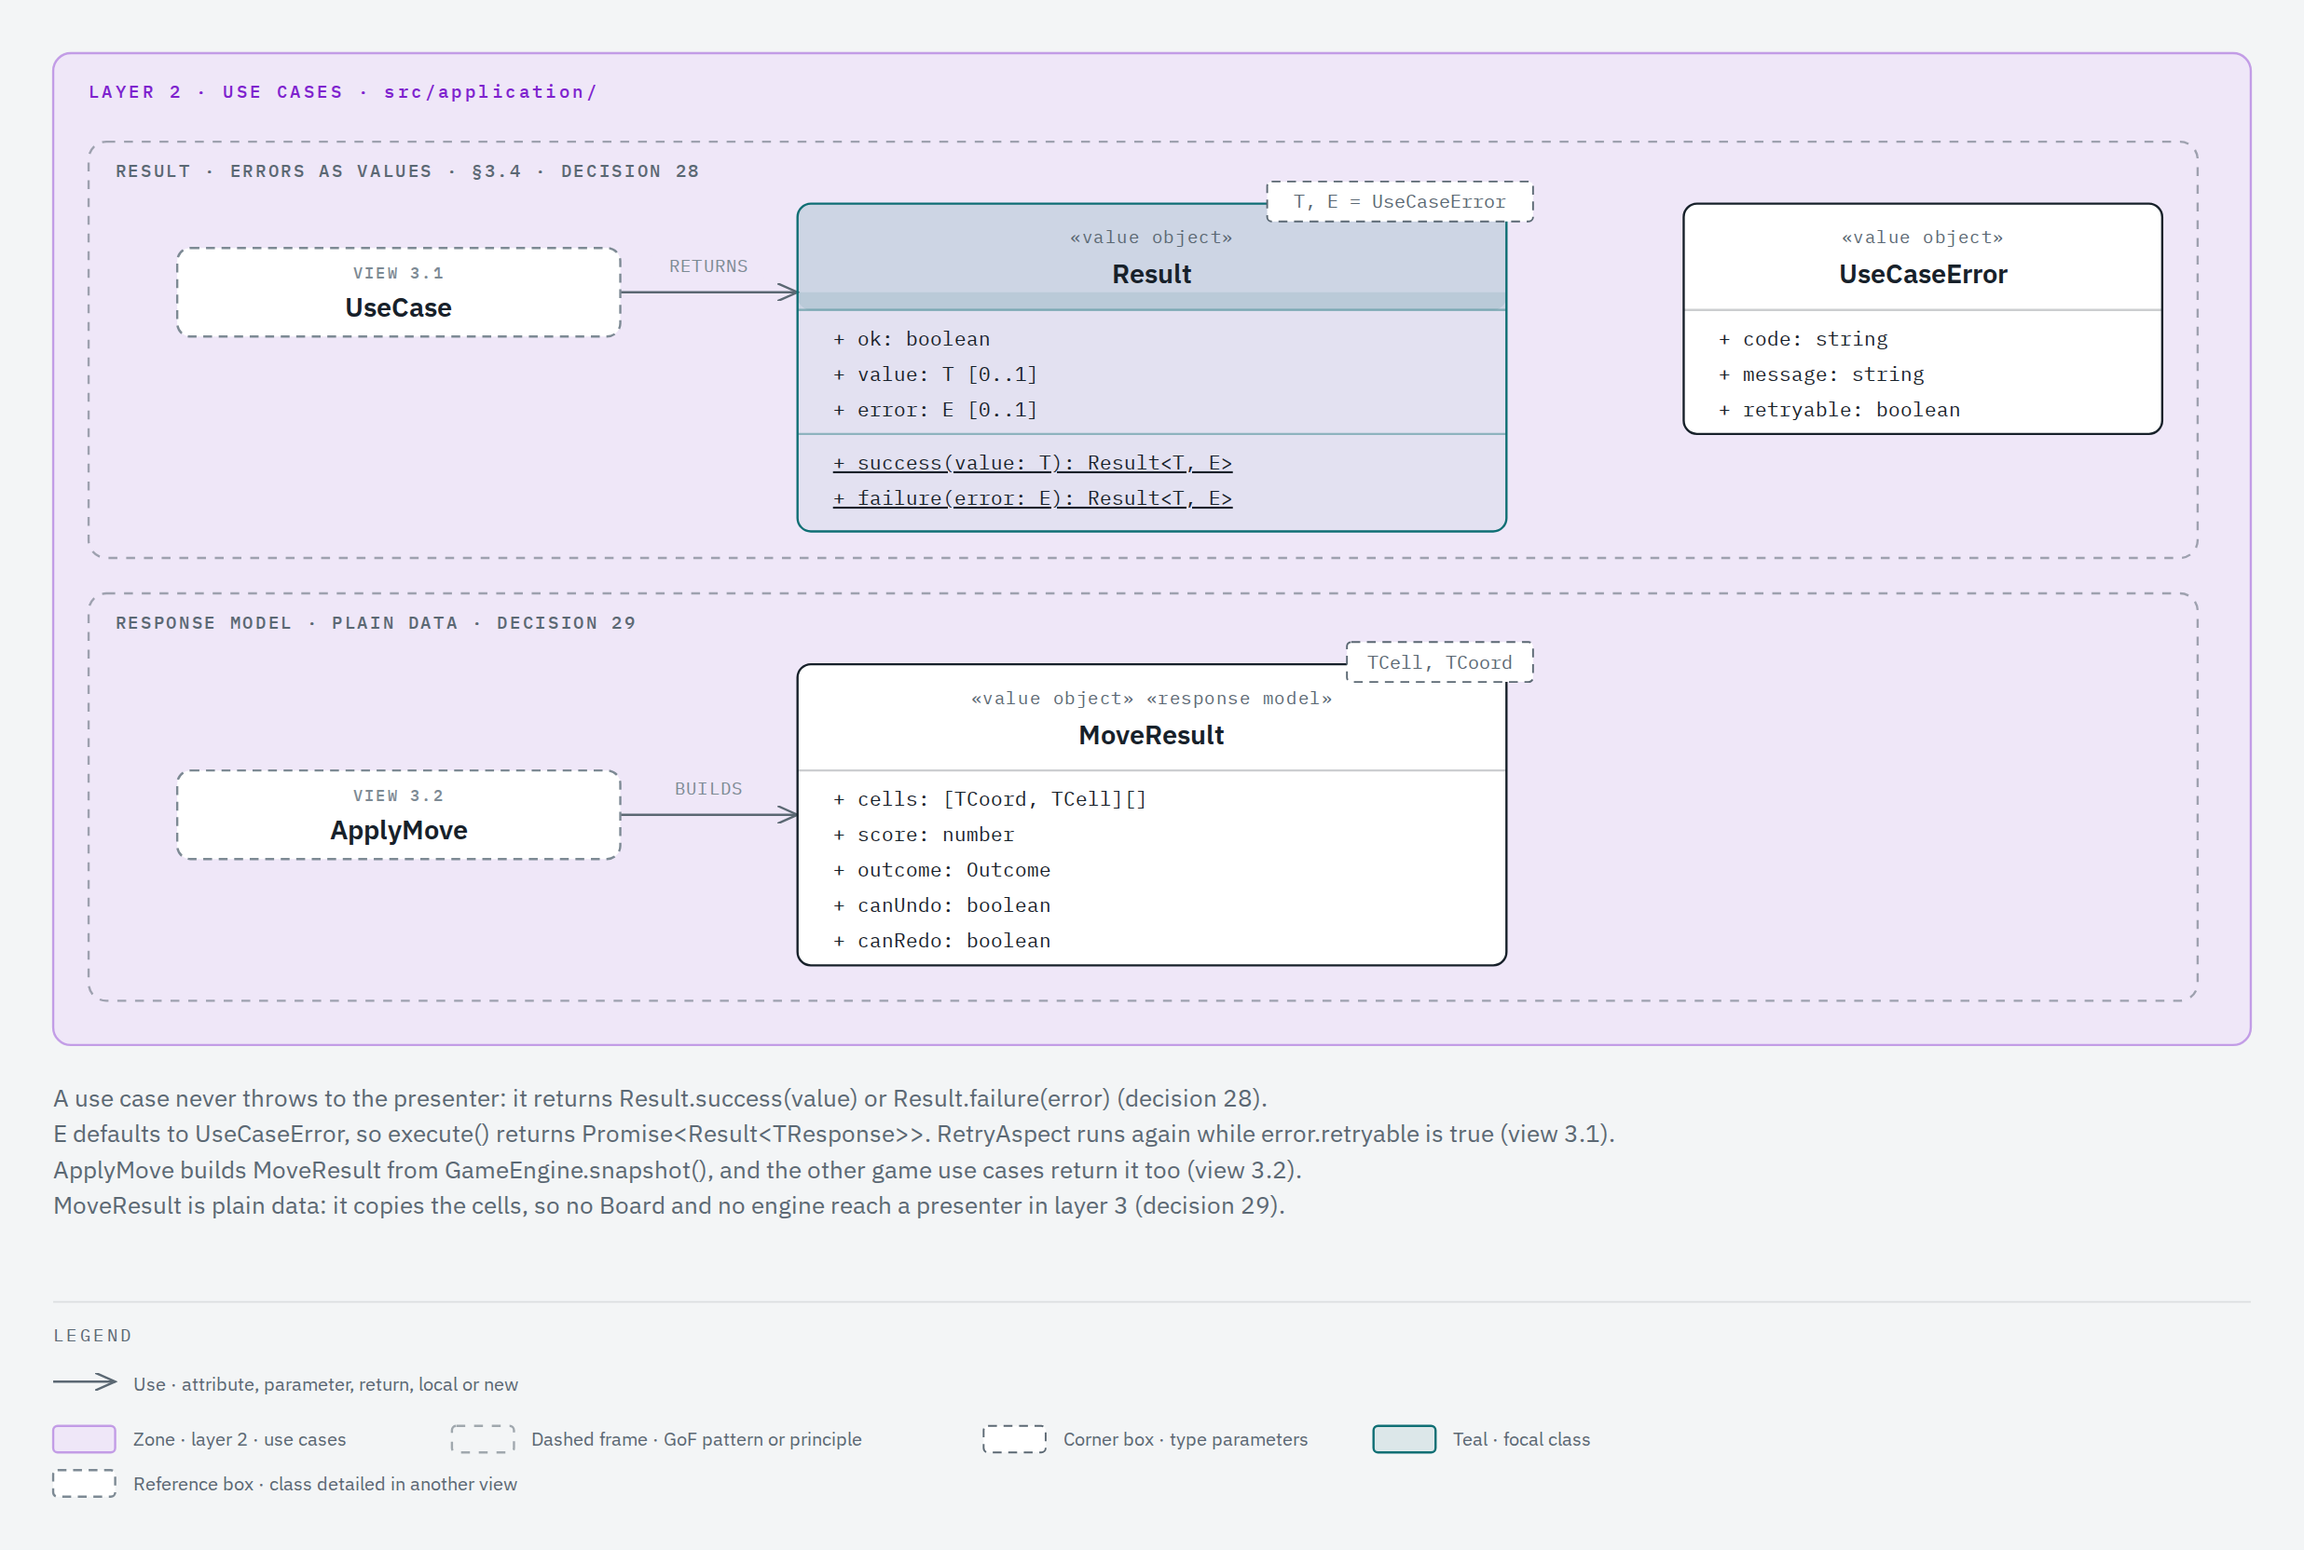
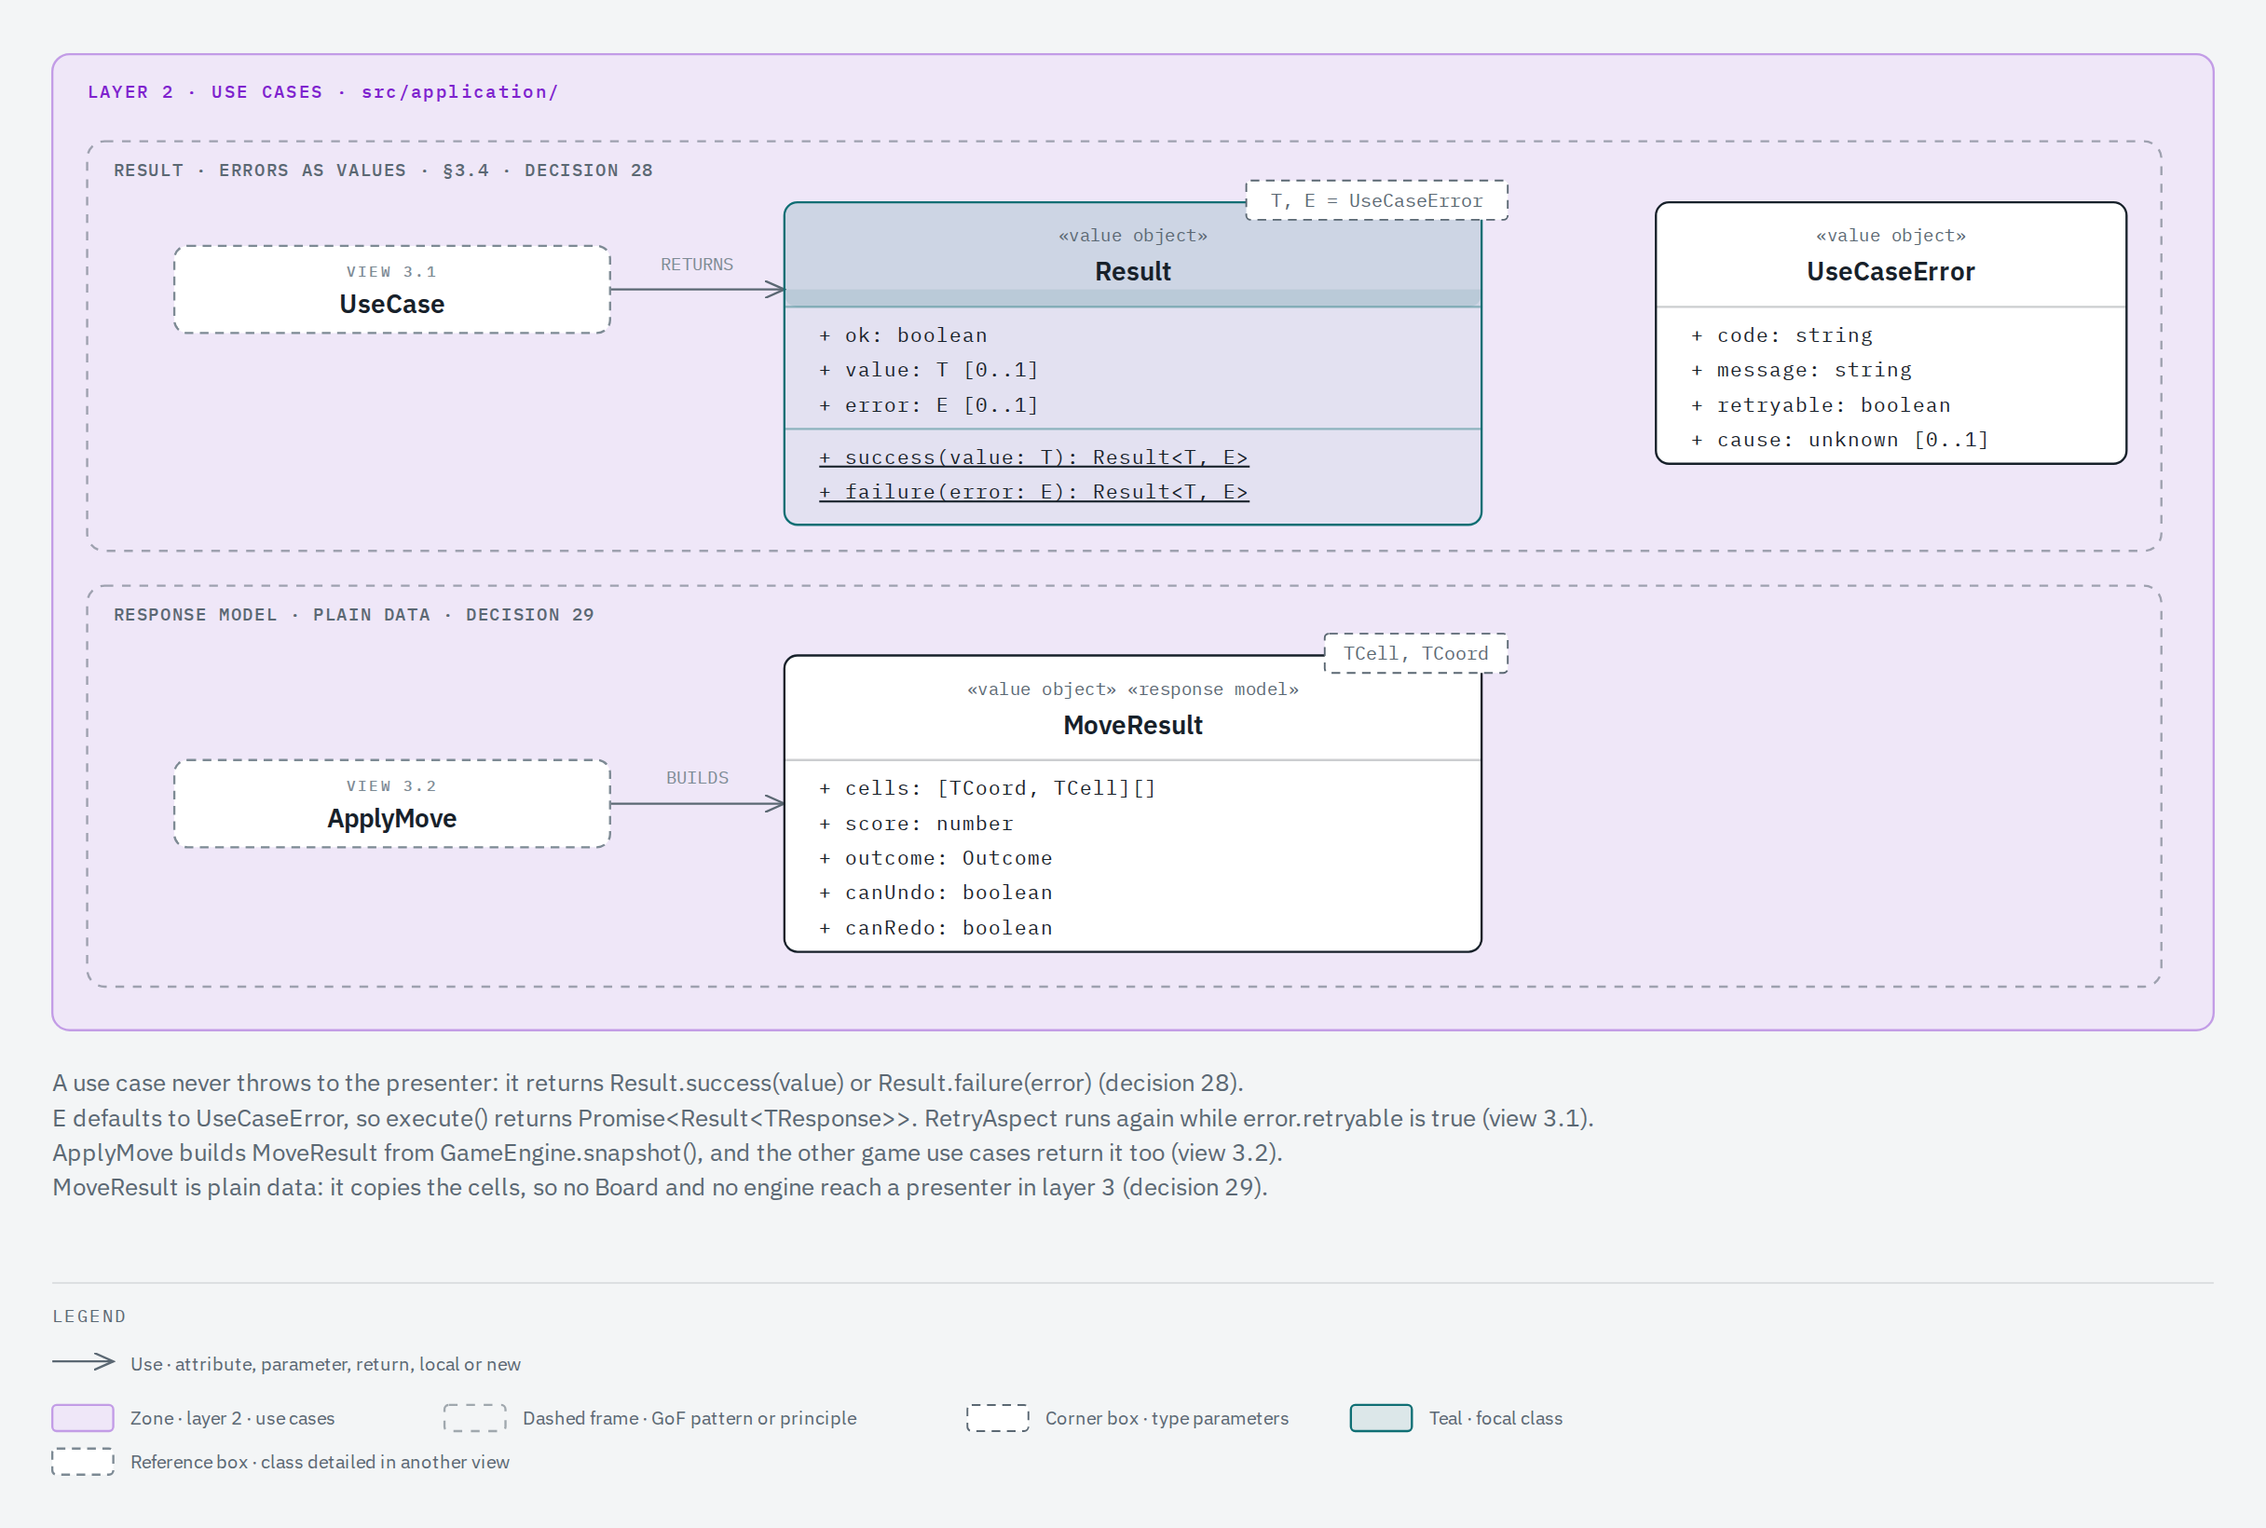
feat(application): keep aspects from throwing and reject empty names
UseCaseAspect.execute() turns every exception, from the inner use case or from the aspect's own
work such as a throwing logger, into a failed Result with the code unexpected-failure (G118.1,
G118.2). An aspect now overrides the protected around(). caughtError() keeps the thrown value as
UseCaseError.cause, so the log still sees a programming error.

UseCaseError rejects an empty or blank code and LoggingAspect an empty or blank name with a
RangeError (G117.6, G118.4).

Refs #132

diff --git a/test/application/logging-aspect.test.ts b/test/application/logging-aspect.test.ts
@@ -181,4 +181,86 @@ describe('LoggingAspect', () => {
       expect(source).not.toMatch(/from '\.\/(logger|logging-aspect|use-case-aspect)'/);
     }
   });
+
+  // The log names the call by `name`, so an empty name helps no one (G118.4).
+  it('should_throw_a_range_error_when_a_logging_aspect_gets_an_empty_or_blank_name', () => {
+    const inner = new FixedUseCase(Result.success(1));
+    const logger = new RecordingLogger();
+
+    for (const name of ['', '  ', '\t']) {
+      expect(() => new LoggingAspect(inner, logger, name)).toThrow(
+        new RangeError('A logging aspect needs a name.'),
+      );
+    }
+    expect(logger.entries).toEqual([]);
+  });
+});
+
+// A use case that breaks its promise and rejects, as a use case with a bug would.
+class RejectingUseCase implements UseCase<string, number> {
+  constructor(private readonly thrown: unknown) {}
+
+  async execute(_request: string): Promise<Result<number>> {
+    throw this.thrown;
+  }
+}
+
+// A logger whose adapter fails on every write.
+class ThrowingLogger implements Logger {
+  log(_entry: UseCaseLogEntry): void {
+    throw new Error('The log disk is full.');
+  }
+}
+
+// The plain Decorator: it adds no concern, so it shows what the base class does.
+class PassThroughAspect<TRequest, TResponse> extends UseCaseAspect<TRequest, TResponse> {}
+
+describe('UseCaseAspect', () => {
+  // `execute()` never throws to the presenter (classes.md decision 28, G118.2).
+  it('should_return_an_unexpected_failure_with_the_cause_when_the_inner_use_case_rejects', async () => {
+    const thrown = new TypeError('The use case has a bug.');
+    const logger = new RecordingLogger();
+
+    const plain = await new PassThroughAspect(new RejectingUseCase(thrown)).execute('x');
+    const logged = await new LoggingAspect(new RejectingUseCase(thrown), logger, 'Broken').execute(
+      'x',
+    );
+
+    for (const result of [plain, logged]) {
+      const error = errorOf(result);
+      expect([error.code, error.message, error.retryable]).toEqual([
+        'unexpected-failure',
+        'The use case has a bug.',
+        false,
+      ]);
+      expect(error.cause).toBe(thrown);
+    }
+    expect(logger.entries).toEqual([
+      { useCase: 'Broken', outcome: 'failure', error: errorOf(logged) },
+    ]);
+  });
+
+  // The aspect's own work fails here: the logger throws after the inner call (G118.1).
+  it('should_return_an_unexpected_failure_with_the_cause_when_the_logger_throws', async () => {
+    const inner = new FixedUseCase(Result.success(5));
+
+    const result = await new LoggingAspect(inner, new ThrowingLogger(), 'Fixed').execute('x');
+
+    const error = errorOf(result);
+    expect([error.code, error.message, error.retryable]).toEqual([
+      'unexpected-failure',
+      'The log disk is full.',
+      false,
+    ]);
+    expect(error.cause).toEqual(new Error('The log disk is full.'));
+    expect(inner.requests).toEqual(['x']);
+  });
+
+  it('should_return_the_inner_result_unchanged_when_the_plain_aspect_wraps_a_use_case', async () => {
+    const success = new FixedUseCase(Result.success(7));
+    const failure = new FixedUseCase(Result.failure(new UseCaseError('boom', 'It failed.', true)));
+
+    expect(await new PassThroughAspect(success).execute('a')).toBe(success.result);
+    expect(await new PassThroughAspect(failure).execute('b')).toBe(failure.result);
+  });
 });

diff --git a/docs/architecture/classes/views/uc-1-contract.html b/docs/architecture/classes/views/uc-1-contract.html
@@ -73,10 +73,10 @@
         <desc id="uccontract-desc">
           Class diagram of layer 2 showing the UseCase input port that every use case implements,
           whose execute() returns a Result, the abstract UseCaseAspect decorator that implements
-          UseCase and wraps one inner UseCase, the logging, timing, retry and authorization aspects
-          that extend it, and the Logger output port that the logging and timing aspects use. Logger
-          takes a UseCaseLogEntry with the use case name, the outcome, the time and the error, and
-          the adapter writes the text.
+          UseCase, wraps one inner UseCase and turns every exception into a failed Result, the
+          logging, timing, retry and authorization aspects that extend it, and the Logger output
+          port that the logging and timing aspects use. Logger takes a UseCaseLogEntry with the use
+          case name, the outcome, the time and the error, and the adapter writes the text.
         </desc>
         <defs>
           <marker
@@ -249,7 +249,7 @@
         />
         <!-- RetryAspect extends UseCaseAspect: inheritance -->
         <path
-          d="M184 424 V400 Q184 392 192 392 H392 Q400 392 400 384 V360"
+          d="M184 424 V408 Q184 400 192 400 H392 Q400 400 400 392 V376"
           fill="none"
           stroke="#17212a"
           stroke-width="1"
@@ -260,7 +260,7 @@
           x1="480"
           y1="424"
           x2="480"
-          y2="360"
+          y2="376"
           stroke="#17212a"
           stroke-width="1"
           marker-end="url(#uccontract-triangle)"
@@ -270,14 +270,14 @@
           x1="560"
           y1="424"
           x2="560"
-          y2="360"
+          y2="376"
           stroke="#17212a"
           stroke-width="1"
           marker-end="url(#uccontract-triangle)"
         />
         <!-- AuthorizationAspect extends UseCaseAspect: inheritance -->
         <path
-          d="M856 424 V400 Q856 392 848 392 H648 Q640 392 640 384 V360"
+          d="M856 424 V408 Q856 400 848 400 H648 Q640 400 640 392 V376"
           fill="none"
           stroke="#17212a"
           stroke-width="1"
@@ -418,7 +418,7 @@
           x="344"
           y="264"
           width="352"
-          height="96"
+          height="112"
           rx="6"
           fill="#ffffff"
           stroke="#17212a"
@@ -454,6 +454,9 @@
         </text>
         <text x="360" y="352" fill="#17212a" font-size="9" font-family="'IBM Plex Mono', monospace">
           + execute(request: TRequest): Promise&lt;Result&lt;TResponse&gt;&gt;
+        </text>
+        <text x="360" y="368" fill="#17212a" font-size="9" font-family="'IBM Plex Mono', monospace">
+          # around(request: TRequest): Promise&lt;Result&lt;TResponse&gt;&gt;
         </text>
 
         <!-- Class: RetryAspect -->

diff --git a/src/application/use-case-aspect.ts b/src/application/use-case-aspect.ts
@@ -1,15 +1,36 @@
-import type { Result } from './result';
+import { caughtError, Result } from './result';
 import type { UseCase } from './use-case';
+
+// The code of a failure that an exception causes inside an aspect (issue 132).
+const UNEXPECTED_FAILURE = 'unexpected-failure';
 
 // The abstract Decorator of the use cases (classes.md decision 9, view 3.1, A2).
 // It implements `UseCase` and keeps the inner use case it wraps.
-// Its `execute()` runs the inner use case and returns its `Result` unchanged.
-// Each aspect extends it and adds one cross-cutting concern around `super.execute()`.
+// Each aspect extends it and adds one cross-cutting concern in `around()`.
 // The inner use case holds no line of the aspect's code (APP-NFR-11).
+// `execute()` never throws to the presenter (decision 28). It turns each exception,
+// from the inner use case or from the aspect's own work, into an `unexpected-failure`
+// `Result` whose error keeps the exception as its `cause` (G118.1, G118.2).
 export abstract class UseCaseAspect<TRequest, TResponse> implements UseCase<TRequest, TResponse> {
   constructor(protected readonly inner: UseCase<TRequest, TResponse>) {}
 
-  execute(request: TRequest): Promise<Result<TResponse>> {
-    return this.inner.execute(request);
+  async execute(request: TRequest): Promise<Result<TResponse>> {
+    try {
+      return await this.around(request);
+    } catch (thrown) {
+      return Result.failure(caughtError(UNEXPECTED_FAILURE, thrown));
+    }
+  }
+
+  // The concern of the aspect. An aspect overrides it and calls `super.around()`
+  // to run the inner use case. This base runs the inner use case and returns its
+  // `Result` unchanged. A rejected promise gives an `unexpected-failure` `Result`,
+  // so the aspect always gets a `Result` back.
+  protected async around(request: TRequest): Promise<Result<TResponse>> {
+    try {
+      return await this.inner.execute(request);
+    } catch (thrown) {
+      return Result.failure(caughtError(UNEXPECTED_FAILURE, thrown));
+    }
   }
 }

diff --git a/src/application/logging-aspect.ts b/src/application/logging-aspect.ts
@@ -6,6 +6,8 @@ import { UseCaseAspect } from './use-case-aspect';
 // Logs each call of the inner use case through the `Logger` port (APP-NFR-11, view 3.1).
 // It passes one `UseCaseLogEntry` per call and formats no message (classes.md decision 37).
 // It reads no time: `TimingAspect` measures the call with the engine `Clock`.
+// An empty or blank `name` throws a `RangeError`, because the log names the call by it (G118.4).
+// A logger that throws gives an `unexpected-failure` `Result` from `execute()`.
 export class LoggingAspect<TRequest, TResponse> extends UseCaseAspect<TRequest, TResponse> {
   constructor(
     inner: UseCase<TRequest, TResponse>,
@@ -13,10 +15,11 @@ export class LoggingAspect<TRequest, TResponse> extends UseCaseAspect<TRequest, 
     private readonly name: string,
   ) {
     super(inner);
+    if (name.trim() === '') throw new RangeError('A logging aspect needs a name.');
   }
 
-  override async execute(request: TRequest): Promise<Result<TResponse>> {
-    const result = await super.execute(request);
+  protected override async around(request: TRequest): Promise<Result<TResponse>> {
+    const result = await super.around(request);
     this.logger.log(logEntryOf(this.name, result));
     return result;
   }

diff --git a/src/application/result.ts b/src/application/result.ts
@@ -1,12 +1,16 @@
 // The error of a failed use case (classes.md decision 28). It is a value object.
 // `code` names the failure for the presenter, `message` explains it,
 // and `RetryAspect` runs the use case again while `retryable` is true.
+// `cause` keeps the caught value, so the log still shows a programming error.
+// An empty or blank `code` throws a `RangeError`, because the presenter reads it (G117.6).
 export class UseCaseError {
   constructor(
     readonly code: string,
     readonly message: string,
     readonly retryable = false,
+    readonly cause?: unknown,
   ) {
+    if (code.trim() === '') throw new RangeError('A use case error needs a code.');
     Object.freeze(this);
   }
 }
@@ -29,7 +33,8 @@ export const Result = {
 };
 
 // The error of a caught exception as a `UseCaseError`. Any thrown value gives a message.
+// The error keeps the thrown value as its `cause`.
 export function caughtError(code: string, thrown: unknown): UseCaseError {
   const message = thrown instanceof Error ? thrown.message : String(thrown);
-  return new UseCaseError(code, message);
+  return new UseCaseError(code, message, false, thrown);
 }

diff --git a/test/application/result.test.ts b/test/application/result.test.ts
@@ -44,6 +44,30 @@ describe('Result', () => {
     );
   });
 
+  // The presenter picks its message by `code`, so an empty code helps no one (G117.6).
+  it('should_throw_a_range_error_when_a_use_case_error_gets_an_empty_or_blank_code', () => {
+    for (const code of ['', '  ', '\t']) {
+      expect(() => new UseCaseError(code, 'It failed.')).toThrow(
+        new RangeError('A use case error needs a code.'),
+      );
+    }
+    expect(new UseCaseError(' boom ', 'It failed.').code).toBe(' boom ');
+  });
+
+  it('should_keep_the_thrown_value_as_the_cause_when_caught_error_builds_the_error', () => {
+    const thrown = new TypeError('The adapter has a bug.');
+
+    const error = caughtError('move-failed', thrown);
+
+    expect([error.code, error.message, error.retryable]).toEqual([
+      'move-failed',
+      'The adapter has a bug.',
+      false,
+    ]);
+    expect(error.cause).toBe(thrown);
+    expect(new UseCaseError('boom', 'It failed.').cause).toBeUndefined();
+  });
+
   it('should_reject_a_change_when_a_caller_writes_to_a_result', () => {
     const result = Result.success({ score: 1 });
 

diff --git a/docs/architecture/classes/views/uc-5-results.html b/docs/architecture/classes/views/uc-5-results.html
@@ -392,7 +392,7 @@
           x="760"
           y="92"
           width="216"
-          height="104"
+          height="120"
           rx="6"
           fill="#ffffff"
           stroke="#17212a"
@@ -429,6 +429,9 @@
         </text>
         <text x="776" y="188" fill="#17212a" font-size="9" font-family="'IBM Plex Mono', monospace">
           + retryable: boolean
+        </text>
+        <text x="776" y="204" fill="#17212a" font-size="9" font-family="'IBM Plex Mono', monospace">
+          + cause: unknown [0..1]
         </text>
 
         <!-- Class: MoveResult (value object, response model) -->
